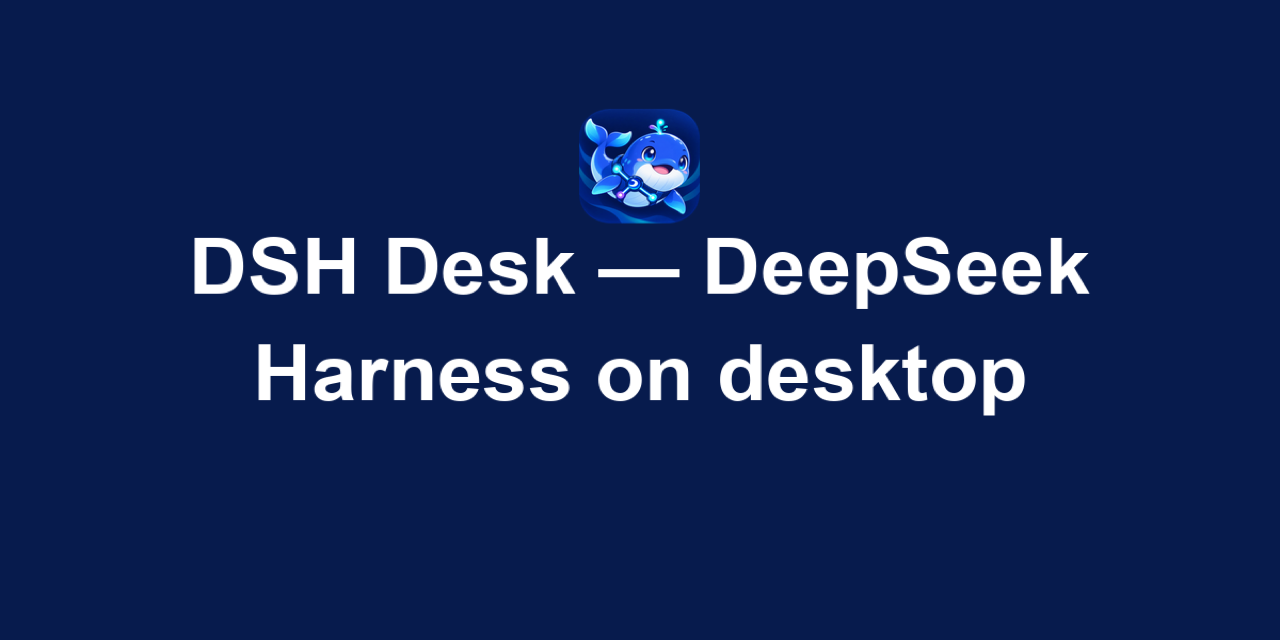
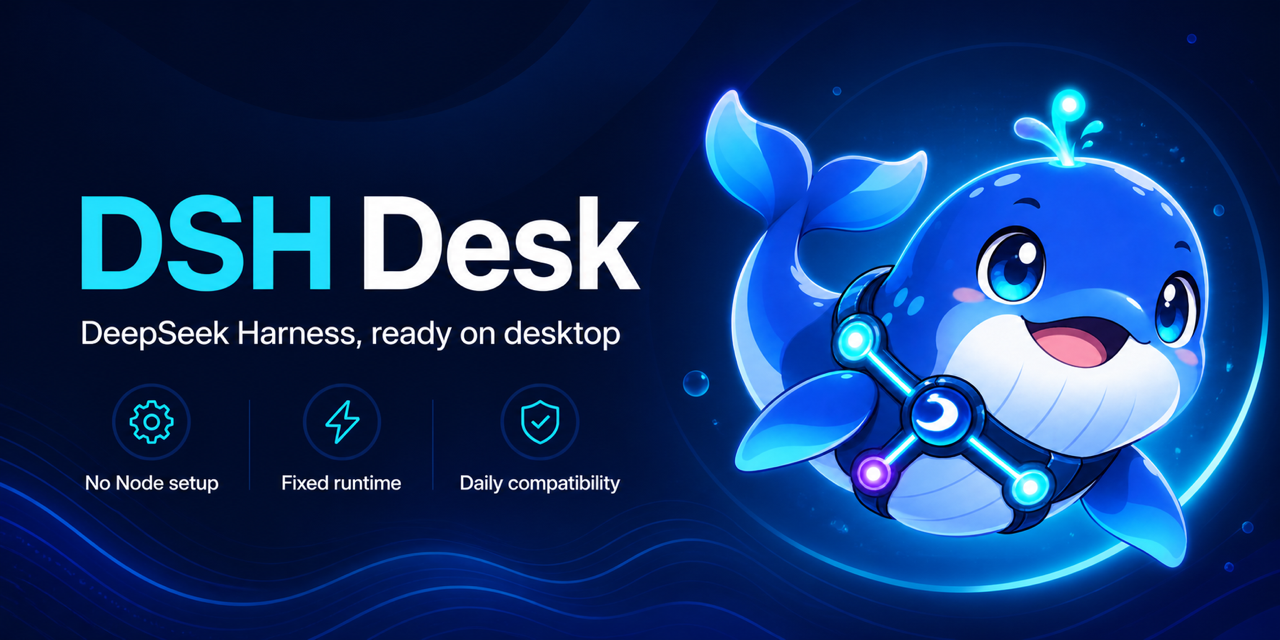
design: refine repository social preview

diff --git a/assets/social/README.md b/assets/social/README.md
@@ -1,10 +1,7 @@
 # Social assets
 
-- `github-social-preview.png`: 1280×640 GitHub repository social preview.
-- `og-image.png`: 1200×630 Open Graph image for LinkedIn, Facebook, and
-  compatible link previews.
-- `twitter-image.png`: 1200×675 large-card image.
-- `og-square.png`: 1200×1200 square variant.
+- `github-social-preview.png`: 1280×640 GitHub repository social preview,
+  featuring the DSH Desk whale mascot and three verified product attributes.
 
-These are brand and distribution assets, not product proof. A real first-task
-GIF or short video is still required before a broad launch.
+This is a brand and distribution asset, not product proof. A real first-task GIF
+or short video is still required before a broad launch.
